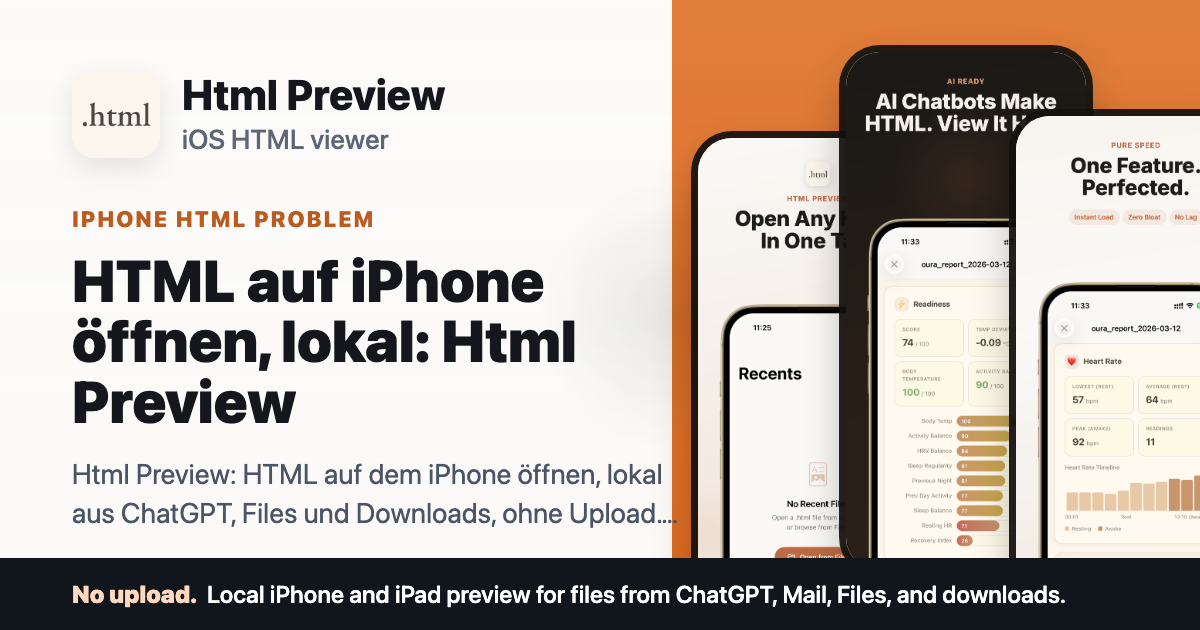
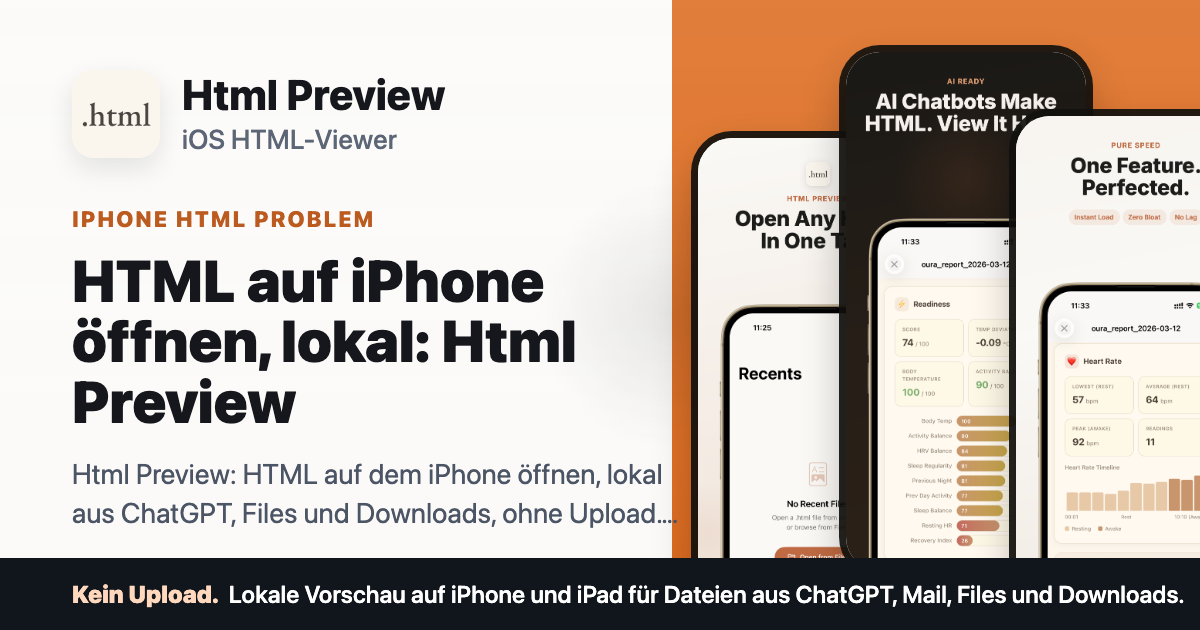
Expand localized social cards

Changed region(s): [[0.0617, 0.9048, 0.9867, 0.9651], [0.2467, 0.2111, 0.3392, 0.2413]]

diff --git a/ko/articles/quick-look-cant-preview-html-on-iphone/index.html b/ko/articles/quick-look-cant-preview-html-on-iphone/index.html
@@ -68,19 +68,19 @@
     <meta property="article:modified_time" content="2026-07-03T00:00:00+00:00">
     <meta property="article:author" content="CyberGame Limited">
     <meta property="article:section" content="HTML viewer for iOS">
-    <meta property="og:image" content="https://html.cybergame.ai/assets/social-card.png">
-    <meta property="og:image:secure_url" content="https://html.cybergame.ai/assets/social-card.png">
+    <meta property="og:image" content="https://html.cybergame.ai/assets/social/ko-article-quick-look-cant-preview-html-on-iphone.png">
+    <meta property="og:image:secure_url" content="https://html.cybergame.ai/assets/social/ko-article-quick-look-cant-preview-html-on-iphone.png">
     <meta property="og:image:type" content="image/png">
     <meta property="og:image:width" content="1200">
     <meta property="og:image:height" content="630">
-    <meta property="og:image:alt" content="Html Preview 소셜 미리보기, App Store 스크린샷 포함">
+    <meta property="og:image:alt" content="Quick Look HTML 미리보기 안 됨 | Html Preview - Html Preview">
     <meta name="twitter:card" content="summary_large_image">
     <meta name="twitter:title" content="Quick Look HTML 미리보기 안 됨 | Html Preview">
     <meta name="twitter:description" content="Quick Look에서 열리지 않는 HTML 파일: iPhone과 iPad에서 열고 Html Preview로 업로드 없이 로컬 미리보기하세요. Files와 공유 시트에서 바로 확인할 수 있습니다. 광고 없음.">
-    <meta name="twitter:image" content="https://html.cybergame.ai/assets/social-card.png">
+    <meta name="twitter:image" content="https://html.cybergame.ai/assets/social/ko-article-quick-look-cant-preview-html-on-iphone.png">
     <meta name="twitter:image:width" content="1200">
     <meta name="twitter:image:height" content="630">
-    <meta name="twitter:image:alt" content="Html Preview 소셜 미리보기, App Store 스크린샷 포함">
+    <meta name="twitter:image:alt" content="Quick Look HTML 미리보기 안 됨 | Html Preview - Html Preview">
     <meta property="al:ios:app_store_id" content="6760443436">
     <meta property="al:ios:url" content="itms-apps://itunes.apple.com/app/id6760443436">
     <meta property="al:ios:app_name" content="Html Preview">

diff --git a/ko/articles/files-app-cant-preview-html-on-iphone/index.html b/ko/articles/files-app-cant-preview-html-on-iphone/index.html
@@ -68,19 +68,19 @@
     <meta property="article:modified_time" content="2026-07-03T00:00:00+00:00">
     <meta property="article:author" content="CyberGame Limited">
     <meta property="article:section" content="HTML viewer for iOS">
-    <meta property="og:image" content="https://html.cybergame.ai/assets/social-card.png">
-    <meta property="og:image:secure_url" content="https://html.cybergame.ai/assets/social-card.png">
+    <meta property="og:image" content="https://html.cybergame.ai/assets/social/ko-article-files-app-cant-preview-html-on-iphone.png">
+    <meta property="og:image:secure_url" content="https://html.cybergame.ai/assets/social/ko-article-files-app-cant-preview-html-on-iphone.png">
     <meta property="og:image:type" content="image/png">
     <meta property="og:image:width" content="1200">
     <meta property="og:image:height" content="630">
-    <meta property="og:image:alt" content="Html Preview 소셜 미리보기, App Store 스크린샷 포함">
+    <meta property="og:image:alt" content="Files HTML 미리보기 안 됨 | Html Preview - Html Preview">
     <meta name="twitter:card" content="summary_large_image">
     <meta name="twitter:title" content="Files HTML 미리보기 안 됨 | Html Preview">
     <meta name="twitter:description" content="Files에서 미리보기 안 되는 HTML 파일: iPhone과 iPad에서 열고 Html Preview로 업로드 없이 로컬 미리보기하세요. Files와 공유 시트에서 바로 확인할 수 있습니다. 광고 없음.">
-    <meta name="twitter:image" content="https://html.cybergame.ai/assets/social-card.png">
+    <meta name="twitter:image" content="https://html.cybergame.ai/assets/social/ko-article-files-app-cant-preview-html-on-iphone.png">
     <meta name="twitter:image:width" content="1200">
     <meta name="twitter:image:height" content="630">
-    <meta name="twitter:image:alt" content="Html Preview 소셜 미리보기, App Store 스크린샷 포함">
+    <meta name="twitter:image:alt" content="Files HTML 미리보기 안 됨 | Html Preview - Html Preview">
     <meta property="al:ios:app_store_id" content="6760443436">
     <meta property="al:ios:url" content="itms-apps://itunes.apple.com/app/id6760443436">
     <meta property="al:ios:app_name" content="Html Preview">

diff --git a/ko/articles/open-ai-generated-html-file-on-iphone/index.html b/ko/articles/open-ai-generated-html-file-on-iphone/index.html
@@ -68,19 +68,19 @@
     <meta property="article:modified_time" content="2026-07-03T00:00:00+00:00">
     <meta property="article:author" content="CyberGame Limited">
     <meta property="article:section" content="HTML viewer for iOS">
-    <meta property="og:image" content="https://html.cybergame.ai/assets/social-card.png">
-    <meta property="og:image:secure_url" content="https://html.cybergame.ai/assets/social-card.png">
+    <meta property="og:image" content="https://html.cybergame.ai/assets/social/ko-article-open-ai-generated-html-file-on-iphone.png">
+    <meta property="og:image:secure_url" content="https://html.cybergame.ai/assets/social/ko-article-open-ai-generated-html-file-on-iphone.png">
     <meta property="og:image:type" content="image/png">
     <meta property="og:image:width" content="1200">
     <meta property="og:image:height" content="630">
-    <meta property="og:image:alt" content="Html Preview 소셜 미리보기, App Store 스크린샷 포함">
+    <meta property="og:image:alt" content="iPhone에서 AI 생성 HTML 열기 | Html Preview - Html Preview">
     <meta name="twitter:card" content="summary_large_image">
     <meta name="twitter:title" content="iPhone에서 AI 생성 HTML 열기 | Html Preview">
     <meta name="twitter:description" content="AI 생성 HTML 파일: iPhone과 iPad에서 열고 Html Preview로 업로드 없이 로컬 미리보기하세요. Files와 공유 시트에서 바로 확인할 수 있습니다. 광고 없음.">
-    <meta name="twitter:image" content="https://html.cybergame.ai/assets/social-card.png">
+    <meta name="twitter:image" content="https://html.cybergame.ai/assets/social/ko-article-open-ai-generated-html-file-on-iphone.png">
     <meta name="twitter:image:width" content="1200">
     <meta name="twitter:image:height" content="630">
-    <meta name="twitter:image:alt" content="Html Preview 소셜 미리보기, App Store 스크린샷 포함">
+    <meta name="twitter:image:alt" content="iPhone에서 AI 생성 HTML 열기 | Html Preview - Html Preview">
     <meta property="al:ios:app_store_id" content="6760443436">
     <meta property="al:ios:url" content="itms-apps://itunes.apple.com/app/id6760443436">
     <meta property="al:ios:app_name" content="Html Preview">

diff --git a/ko/articles/best-chatgpt-claude-html-viewer-iphone/index.html b/ko/articles/best-chatgpt-claude-html-viewer-iphone/index.html
@@ -68,19 +68,19 @@
     <meta property="article:modified_time" content="2026-07-03T00:00:00+00:00">
     <meta property="article:author" content="CyberGame Limited">
     <meta property="article:section" content="HTML viewer for iOS">
-    <meta property="og:image" content="https://html.cybergame.ai/assets/social-card.png">
-    <meta property="og:image:secure_url" content="https://html.cybergame.ai/assets/social-card.png">
+    <meta property="og:image" content="https://html.cybergame.ai/assets/social/ko-article-best-chatgpt-claude-html-viewer-iphone.png">
+    <meta property="og:image:secure_url" content="https://html.cybergame.ai/assets/social/ko-article-best-chatgpt-claude-html-viewer-iphone.png">
     <meta property="og:image:type" content="image/png">
     <meta property="og:image:width" content="1200">
     <meta property="og:image:height" content="630">
-    <meta property="og:image:alt" content="Html Preview 소셜 미리보기, App Store 스크린샷 포함">
+    <meta property="og:image:alt" content="ChatGPT/Claude HTML 뷰어 iPhone - Html Preview">
     <meta name="twitter:card" content="summary_large_image">
     <meta name="twitter:title" content="ChatGPT/Claude HTML 뷰어 iPhone">
     <meta name="twitter:description" content="ChatGPT/Claude용 HTML 뷰어 비교: iPhone과 iPad에서 열고 Html Preview로 업로드 없이 로컬 미리보기하세요. Files와 공유 시트에서 바로 확인할 수 있습니다. 광고 없음.">
-    <meta name="twitter:image" content="https://html.cybergame.ai/assets/social-card.png">
+    <meta name="twitter:image" content="https://html.cybergame.ai/assets/social/ko-article-best-chatgpt-claude-html-viewer-iphone.png">
     <meta name="twitter:image:width" content="1200">
     <meta name="twitter:image:height" content="630">
-    <meta name="twitter:image:alt" content="Html Preview 소셜 미리보기, App Store 스크린샷 포함">
+    <meta name="twitter:image:alt" content="ChatGPT/Claude HTML 뷰어 iPhone - Html Preview">
     <meta property="al:ios:app_store_id" content="6760443436">
     <meta property="al:ios:url" content="itms-apps://itunes.apple.com/app/id6760443436">
     <meta property="al:ios:app_name" content="Html Preview">

diff --git a/ko/articles/open-chatgpt-html-file-on-iphone/index.html b/ko/articles/open-chatgpt-html-file-on-iphone/index.html
@@ -68,19 +68,19 @@
     <meta property="article:modified_time" content="2026-07-03T00:00:00+00:00">
     <meta property="article:author" content="CyberGame Limited">
     <meta property="article:section" content="HTML viewer for iOS">
-    <meta property="og:image" content="https://html.cybergame.ai/assets/social-card.png">
-    <meta property="og:image:secure_url" content="https://html.cybergame.ai/assets/social-card.png">
+    <meta property="og:image" content="https://html.cybergame.ai/assets/social/ko-article-open-chatgpt-html-file-on-iphone.png">
+    <meta property="og:image:secure_url" content="https://html.cybergame.ai/assets/social/ko-article-open-chatgpt-html-file-on-iphone.png">
     <meta property="og:image:type" content="image/png">
     <meta property="og:image:width" content="1200">
     <meta property="og:image:height" content="630">
-    <meta property="og:image:alt" content="Html Preview 소셜 미리보기, App Store 스크린샷 포함">
+    <meta property="og:image:alt" content="iPhone에서 ChatGPT HTML 열기 | Html Preview - Html Preview">
     <meta name="twitter:card" content="summary_large_image">
     <meta name="twitter:title" content="iPhone에서 ChatGPT HTML 열기 | Html Preview">
     <meta name="twitter:description" content="ChatGPT: iPhone과 iPad에서 열고 Html Preview로 업로드 없이 로컬 미리보기하세요. Files와 공유 시트에서 바로 확인할 수 있습니다. 광고 없음.">
-    <meta name="twitter:image" content="https://html.cybergame.ai/assets/social-card.png">
+    <meta name="twitter:image" content="https://html.cybergame.ai/assets/social/ko-article-open-chatgpt-html-file-on-iphone.png">
     <meta name="twitter:image:width" content="1200">
     <meta name="twitter:image:height" content="630">
-    <meta name="twitter:image:alt" content="Html Preview 소셜 미리보기, App Store 스크린샷 포함">
+    <meta name="twitter:image:alt" content="iPhone에서 ChatGPT HTML 열기 | Html Preview - Html Preview">
     <meta property="al:ios:app_store_id" content="6760443436">
     <meta property="al:ios:url" content="itms-apps://itunes.apple.com/app/id6760443436">
     <meta property="al:ios:app_name" content="Html Preview">

diff --git a/de/articles/quick-look-cant-preview-html-on-iphone/index.html b/de/articles/quick-look-cant-preview-html-on-iphone/index.html
@@ -68,19 +68,19 @@
     <meta property="article:modified_time" content="2026-07-03T00:00:00+00:00">
     <meta property="article:author" content="CyberGame Limited">
     <meta property="article:section" content="HTML viewer for iOS">
-    <meta property="og:image" content="https://html.cybergame.ai/assets/social-card.png">
-    <meta property="og:image:secure_url" content="https://html.cybergame.ai/assets/social-card.png">
+    <meta property="og:image" content="https://html.cybergame.ai/assets/social/de-article-quick-look-cant-preview-html-on-iphone.png">
+    <meta property="og:image:secure_url" content="https://html.cybergame.ai/assets/social/de-article-quick-look-cant-preview-html-on-iphone.png">
     <meta property="og:image:type" content="image/png">
     <meta property="og:image:width" content="1200">
     <meta property="og:image:height" content="630">
-    <meta property="og:image:alt" content="Social Preview von Html Preview mit App Store-Screenshots">
+    <meta property="og:image:alt" content="Quick Look HTML-Dateien auf iPhone öffnen | Html Preview - Html Preview">
     <meta name="twitter:card" content="summary_large_image">
     <meta name="twitter:title" content="Quick Look HTML-Dateien auf iPhone öffnen | Html Preview">
     <meta name="twitter:description" content="Quick Look zeigt HTML nicht richtig? Html Preview öffnet .html-Dateien lokal auf dem iPhone. Ohne Werbung.">
-    <meta name="twitter:image" content="https://html.cybergame.ai/assets/social-card.png">
+    <meta name="twitter:image" content="https://html.cybergame.ai/assets/social/de-article-quick-look-cant-preview-html-on-iphone.png">
     <meta name="twitter:image:width" content="1200">
     <meta name="twitter:image:height" content="630">
-    <meta name="twitter:image:alt" content="Social Preview von Html Preview mit App Store-Screenshots">
+    <meta name="twitter:image:alt" content="Quick Look HTML-Dateien auf iPhone öffnen | Html Preview - Html Preview">
     <meta property="al:ios:app_store_id" content="6760443436">
     <meta property="al:ios:url" content="itms-apps://itunes.apple.com/app/id6760443436">
     <meta property="al:ios:app_name" content="Html Preview">

diff --git a/ko/articles/app-to-open-html-file-on-iphone/index.html b/ko/articles/app-to-open-html-file-on-iphone/index.html
@@ -68,19 +68,19 @@
     <meta property="article:modified_time" content="2026-07-03T00:00:00+00:00">
     <meta property="article:author" content="CyberGame Limited">
     <meta property="article:section" content="HTML viewer for iOS">
-    <meta property="og:image" content="https://html.cybergame.ai/assets/social-card.png">
-    <meta property="og:image:secure_url" content="https://html.cybergame.ai/assets/social-card.png">
+    <meta property="og:image" content="https://html.cybergame.ai/assets/social/ko-article-app-to-open-html-file-on-iphone.png">
+    <meta property="og:image:secure_url" content="https://html.cybergame.ai/assets/social/ko-article-app-to-open-html-file-on-iphone.png">
     <meta property="og:image:type" content="image/png">
     <meta property="og:image:width" content="1200">
     <meta property="og:image:height" content="630">
-    <meta property="og:image:alt" content="Html Preview 소셜 미리보기, App Store 스크린샷 포함">
+    <meta property="og:image:alt" content="HTML 여는 iPhone 앱 | Html Preview - Html Preview">
     <meta name="twitter:card" content="summary_large_image">
     <meta name="twitter:title" content="HTML 여는 iPhone 앱 | Html Preview">
     <meta name="twitter:description" content="Html Preview는 iPhone에서 HTML 파일을 여는 앱입니다. Files, Mail, Safari 다운로드, AI HTML을 업로드 없이 로컬 미리보기합니다. 광고 없음.">
-    <meta name="twitter:image" content="https://html.cybergame.ai/assets/social-card.png">
+    <meta name="twitter:image" content="https://html.cybergame.ai/assets/social/ko-article-app-to-open-html-file-on-iphone.png">
     <meta name="twitter:image:width" content="1200">
     <meta name="twitter:image:height" content="630">
-    <meta name="twitter:image:alt" content="Html Preview 소셜 미리보기, App Store 스크린샷 포함">
+    <meta name="twitter:image:alt" content="HTML 여는 iPhone 앱 | Html Preview - Html Preview">
     <meta property="al:ios:app_store_id" content="6760443436">
     <meta property="al:ios:url" content="itms-apps://itunes.apple.com/app/id6760443436">
     <meta property="al:ios:app_name" content="Html Preview">

diff --git a/de/articles/open-chatgpt-html-file-on-iphone/index.html b/de/articles/open-chatgpt-html-file-on-iphone/index.html
@@ -68,19 +68,19 @@
     <meta property="article:modified_time" content="2026-07-03T00:00:00+00:00">
     <meta property="article:author" content="CyberGame Limited">
     <meta property="article:section" content="HTML viewer for iOS">
-    <meta property="og:image" content="https://html.cybergame.ai/assets/social-card.png">
-    <meta property="og:image:secure_url" content="https://html.cybergame.ai/assets/social-card.png">
+    <meta property="og:image" content="https://html.cybergame.ai/assets/social/de-article-open-chatgpt-html-file-on-iphone.png">
+    <meta property="og:image:secure_url" content="https://html.cybergame.ai/assets/social/de-article-open-chatgpt-html-file-on-iphone.png">
     <meta property="og:image:type" content="image/png">
     <meta property="og:image:width" content="1200">
     <meta property="og:image:height" content="630">
-    <meta property="og:image:alt" content="Social Preview von Html Preview mit App Store-Screenshots">
+    <meta property="og:image:alt" content="ChatGPT- und Claude-HTML-Dateien auf dem iPhone öffnen - Html Preview">
     <meta name="twitter:card" content="summary_large_image">
     <meta name="twitter:title" content="ChatGPT- und Claude-HTML-Dateien auf dem iPhone öffnen">
     <meta name="twitter:description" content="ChatGPT, Claude und Gemini: HTML-Dateien lokal auf dem iPhone öffnen mit Html Preview, ohne Upload. Ohne Werbung.">
-    <meta name="twitter:image" content="https://html.cybergame.ai/assets/social-card.png">
+    <meta name="twitter:image" content="https://html.cybergame.ai/assets/social/de-article-open-chatgpt-html-file-on-iphone.png">
     <meta name="twitter:image:width" content="1200">
     <meta name="twitter:image:height" content="630">
-    <meta name="twitter:image:alt" content="Social Preview von Html Preview mit App Store-Screenshots">
+    <meta name="twitter:image:alt" content="ChatGPT- und Claude-HTML-Dateien auf dem iPhone öffnen - Html Preview">
     <meta property="al:ios:app_store_id" content="6760443436">
     <meta property="al:ios:url" content="itms-apps://itunes.apple.com/app/id6760443436">
     <meta property="al:ios:app_name" content="Html Preview">

diff --git a/es/articles/best-chatgpt-claude-html-viewer-iphone/index.html b/es/articles/best-chatgpt-claude-html-viewer-iphone/index.html
@@ -68,19 +68,19 @@
     <meta property="article:modified_time" content="2026-07-03T00:00:00+00:00">
     <meta property="article:author" content="CyberGame Limited">
     <meta property="article:section" content="HTML viewer for iOS">
-    <meta property="og:image" content="https://html.cybergame.ai/assets/social-card.png">
-    <meta property="og:image:secure_url" content="https://html.cybergame.ai/assets/social-card.png">
+    <meta property="og:image" content="https://html.cybergame.ai/assets/social/es-article-best-chatgpt-claude-html-viewer-iphone.png">
+    <meta property="og:image:secure_url" content="https://html.cybergame.ai/assets/social/es-article-best-chatgpt-claude-html-viewer-iphone.png">
     <meta property="og:image:type" content="image/png">
     <meta property="og:image:width" content="1200">
     <meta property="og:image:height" content="630">
-    <meta property="og:image:alt" content="Vista previa social de Html Preview con capturas de App Store">
+    <meta property="og:image:alt" content="Visor HTML ChatGPT/Claude en iPhone - Html Preview">
     <meta name="twitter:card" content="summary_large_image">
     <meta name="twitter:title" content="Visor HTML ChatGPT/Claude en iPhone">
     <meta name="twitter:description" content="Html Preview: visor HTML con vista local en iPhone para ChatGPT y Claude; renderiza CSS, imágenes y tablas sin subir el archivo. Sin anuncios.">
-    <meta name="twitter:image" content="https://html.cybergame.ai/assets/social-card.png">
+    <meta name="twitter:image" content="https://html.cybergame.ai/assets/social/es-article-best-chatgpt-claude-html-viewer-iphone.png">
     <meta name="twitter:image:width" content="1200">
     <meta name="twitter:image:height" content="630">
-    <meta name="twitter:image:alt" content="Vista previa social de Html Preview con capturas de App Store">
+    <meta name="twitter:image:alt" content="Visor HTML ChatGPT/Claude en iPhone - Html Preview">
     <meta property="al:ios:app_store_id" content="6760443436">
     <meta property="al:ios:url" content="itms-apps://itunes.apple.com/app/id6760443436">
     <meta property="al:ios:app_name" content="Html Preview">

diff --git a/de/articles/files-app-cant-preview-html-on-iphone/index.html b/de/articles/files-app-cant-preview-html-on-iphone/index.html
@@ -68,19 +68,19 @@
     <meta property="article:modified_time" content="2026-07-03T00:00:00+00:00">
     <meta property="article:author" content="CyberGame Limited">
     <meta property="article:section" content="HTML viewer for iOS">
-    <meta property="og:image" content="https://html.cybergame.ai/assets/social-card.png">
-    <meta property="og:image:secure_url" content="https://html.cybergame.ai/assets/social-card.png">
+    <meta property="og:image" content="https://html.cybergame.ai/assets/social/de-article-files-app-cant-preview-html-on-iphone.png">
+    <meta property="og:image:secure_url" content="https://html.cybergame.ai/assets/social/de-article-files-app-cant-preview-html-on-iphone.png">
     <meta property="og:image:type" content="image/png">
     <meta property="og:image:width" content="1200">
     <meta property="og:image:height" content="630">
-    <meta property="og:image:alt" content="Social Preview von Html Preview mit App Store-Screenshots">
+    <meta property="og:image:alt" content="HTML-Dateien ohne Files-Vorschau auf iPhone öffnen - Html Preview">
     <meta name="twitter:card" content="summary_large_image">
     <meta name="twitter:title" content="HTML-Dateien ohne Files-Vorschau auf iPhone öffnen">
     <meta name="twitter:description" content="Files zeigt keine HTML-Vorschau? Html Preview öffnet .html-Dateien lokal auf dem iPhone. Ohne Werbung.">
-    <meta name="twitter:image" content="https://html.cybergame.ai/assets/social-card.png">
+    <meta name="twitter:image" content="https://html.cybergame.ai/assets/social/de-article-files-app-cant-preview-html-on-iphone.png">
     <meta name="twitter:image:width" content="1200">
     <meta name="twitter:image:height" content="630">
-    <meta name="twitter:image:alt" content="Social Preview von Html Preview mit App Store-Screenshots">
+    <meta name="twitter:image:alt" content="HTML-Dateien ohne Files-Vorschau auf iPhone öffnen - Html Preview">
     <meta property="al:ios:app_store_id" content="6760443436">
     <meta property="al:ios:url" content="itms-apps://itunes.apple.com/app/id6760443436">
     <meta property="al:ios:app_name" content="Html Preview">

diff --git a/es/articles/files-app-cant-preview-html-on-iphone/index.html b/es/articles/files-app-cant-preview-html-on-iphone/index.html
@@ -68,19 +68,19 @@
     <meta property="article:modified_time" content="2026-07-03T00:00:00+00:00">
     <meta property="article:author" content="CyberGame Limited">
     <meta property="article:section" content="HTML viewer for iOS">
-    <meta property="og:image" content="https://html.cybergame.ai/assets/social-card.png">
-    <meta property="og:image:secure_url" content="https://html.cybergame.ai/assets/social-card.png">
+    <meta property="og:image" content="https://html.cybergame.ai/assets/social/es-article-files-app-cant-preview-html-on-iphone.png">
+    <meta property="og:image:secure_url" content="https://html.cybergame.ai/assets/social/es-article-files-app-cant-preview-html-on-iphone.png">
     <meta property="og:image:type" content="image/png">
     <meta property="og:image:width" content="1200">
     <meta property="og:image:height" content="630">
-    <meta property="og:image:alt" content="Vista previa social de Html Preview con capturas de App Store">
+    <meta property="og:image:alt" content="Abrir HTML que Files no previsualiza en iPhone - Html Preview">
     <meta name="twitter:card" content="summary_large_image">
     <meta name="twitter:title" content="Abrir HTML que Files no previsualiza en iPhone">
     <meta name="twitter:description" content="Abre HTML que Files no previsualiza en iPhone o iPad. Html Preview previsualiza localmente. Sin anuncios.">
-    <meta name="twitter:image" content="https://html.cybergame.ai/assets/social-card.png">
+    <meta name="twitter:image" content="https://html.cybergame.ai/assets/social/es-article-files-app-cant-preview-html-on-iphone.png">
     <meta name="twitter:image:width" content="1200">
     <meta name="twitter:image:height" content="630">
-    <meta name="twitter:image:alt" content="Vista previa social de Html Preview con capturas de App Store">
+    <meta name="twitter:image:alt" content="Abrir HTML que Files no previsualiza en iPhone - Html Preview">
     <meta property="al:ios:app_store_id" content="6760443436">
     <meta property="al:ios:url" content="itms-apps://itunes.apple.com/app/id6760443436">
     <meta property="al:ios:app_name" content="Html Preview">

diff --git a/es/articles/open-ai-generated-html-file-on-iphone/index.html b/es/articles/open-ai-generated-html-file-on-iphone/index.html
@@ -68,19 +68,19 @@
     <meta property="article:modified_time" content="2026-07-03T00:00:00+00:00">
     <meta property="article:author" content="CyberGame Limited">
     <meta property="article:section" content="HTML viewer for iOS">
-    <meta property="og:image" content="https://html.cybergame.ai/assets/social-card.png">
-    <meta property="og:image:secure_url" content="https://html.cybergame.ai/assets/social-card.png">
+    <meta property="og:image" content="https://html.cybergame.ai/assets/social/es-article-open-ai-generated-html-file-on-iphone.png">
+    <meta property="og:image:secure_url" content="https://html.cybergame.ai/assets/social/es-article-open-ai-generated-html-file-on-iphone.png">
     <meta property="og:image:type" content="image/png">
     <meta property="og:image:width" content="1200">
     <meta property="og:image:height" content="630">
-    <meta property="og:image:alt" content="Vista previa social de Html Preview con capturas de App Store">
+    <meta property="og:image:alt" content="Abrir archivos HTML generados por IA en iPhone - Html Preview">
     <meta name="twitter:card" content="summary_large_image">
     <meta name="twitter:title" content="Abrir archivos HTML generados por IA en iPhone">
     <meta name="twitter:description" content="Abre archivos HTML generados por IA en iPhone o iPad. Html Preview previsualiza localmente. Sin anuncios.">
-    <meta name="twitter:image" content="https://html.cybergame.ai/assets/social-card.png">
+    <meta name="twitter:image" content="https://html.cybergame.ai/assets/social/es-article-open-ai-generated-html-file-on-iphone.png">
     <meta name="twitter:image:width" content="1200">
     <meta name="twitter:image:height" content="630">
-    <meta name="twitter:image:alt" content="Vista previa social de Html Preview con capturas de App Store">
+    <meta name="twitter:image:alt" content="Abrir archivos HTML generados por IA en iPhone - Html Preview">
     <meta property="al:ios:app_store_id" content="6760443436">
     <meta property="al:ios:url" content="itms-apps://itunes.apple.com/app/id6760443436">
     <meta property="al:ios:app_name" content="Html Preview">
